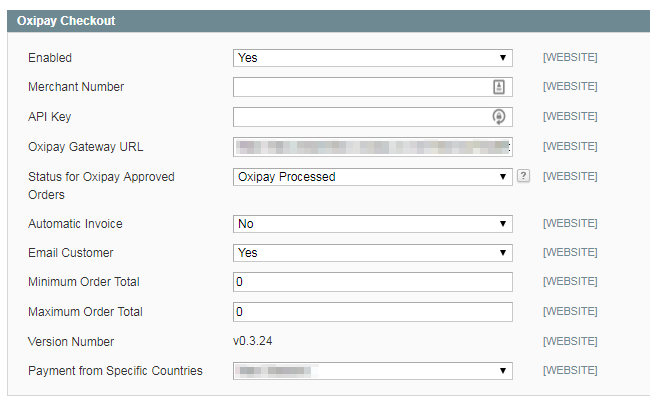
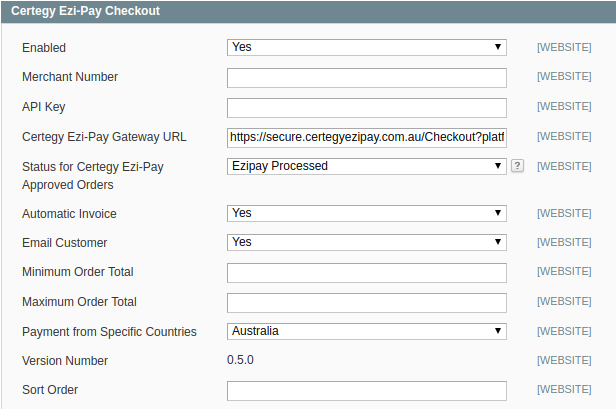
add docs for Magento 1.x

Changed region(s): [[0.0, 0.0, 1.0, 0.9851], [0.8019, 0.2388, 0.8328, 0.2687], [0.3393, 0.1791, 0.3701, 0.209]]

diff --git a/docs/platforms/magento_1.md b/docs/platforms/magento_1.md
@@ -21,14 +21,16 @@ Use the same instructions to upgrade your existing plugin to a newer release.
 
 1 - You can create a backup of your store by navigating to **System** -> **Tools** -> **Backup**.
 
-2 - Download the %product_name% plugin from [github.com/%class_name%/%class_name%-magento-1.x/releases](https://github.com/%class_name%/%class_name%-magento-1.x/releases).
+2 - Download the %product_name% plugin from [https://github.com/Certegy/ezipay-magento-1.x/releases](https://github.com/Certegy/ezipay-magento-1.x/releases).
 
-3 - Unzip it, then copy the following plugin files and folders into the corresponding folder on the `app` folder on the Magento root directory.
+3 - Unzip it, then copy the following plugin files and folders into the corresponding folders under the Magento root directory.
 
-- /app/code/community/%class_name%
-- /app/design/frontend/base/default/template/epcartpaymnents
-- /app/design/adminhtml/base/default/template/epcartpaymnents
-- /app/etc/modules/%class_name%_paymnents.xml
+- /app/code/community/Ezipay
+- /app/design/frontend/base/default/template/ezipayments
+- /app/design/adminhtml/base/default/template/ezipayments
+- /app/etc/modules/Ezipay_Ezipaymnents.xml
+- /skin/frontend/base/default/images/Ezipay/
+- /skin/adminhtml/base/default/images/Ezipay/
 
 4 - Login into Magento's **Admin Panel**, click on **System** then select **Cache Management**.
 
@@ -45,10 +47,6 @@ Use the same instructions to upgrade your existing plugin to a newer release.
 ![5.png](/img/platforms/magento_1/5.png)
 
 3 - Confirm  **%product_name% Checkout** is visible and once expanded looks similar to the image below.
-
-<xdiv class="panel">
-  Some fields have been blurred out in the image.
-</div>
 
 ![6.png](/img/platforms/magento_1/6.png)
 
